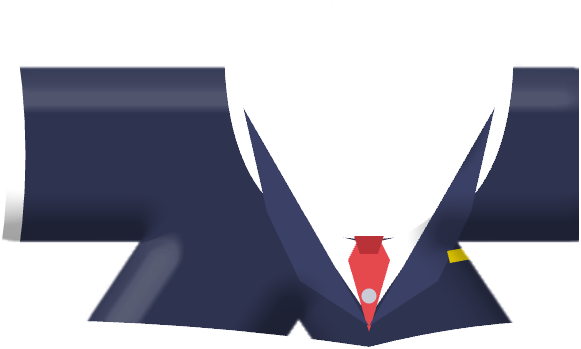
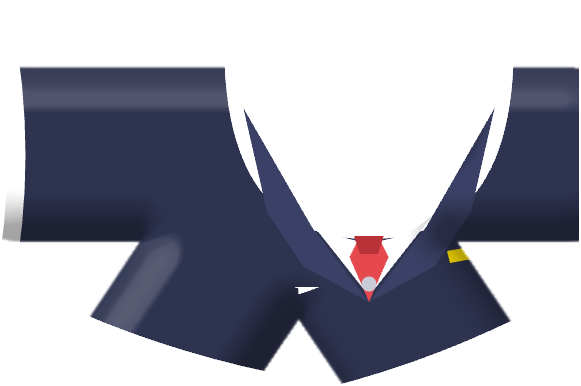
동기화: secret wip (c9b47fcce) — 정장 재킷 · 줄무늬 티셔츠 다리 밑단 · 신발은 늘 옷 위

diff --git a/mobile/scripts/av-art/art.js b/mobile/scripts/av-art/art.js
@@ -74,6 +74,13 @@
   // 윗옷 자리: 소매 끝 xl · xr, 밑단 hy. 얼굴(목둘레)은 비워요
   const NECK = 'M204 20 C198 142 250 168 300 168 C350 168 402 142 396 20 Z';
   const top = (xl, xr, hy = 214, hb = 16) => `M${xl} -20 L${xr} -20 L${xr} ${hy} Q${(xr + 300) / 2} ${hy} 300 ${hy + hb} Q${(xl + 300) / 2} ${hy} ${xl} ${hy} Z ${NECK}`;
+  /**
+   * 다리까지 내려오는 윗옷: 몸통(얼굴 빼고) + 두 다리 띠(0.12 ~ s1). 밑단이 다리마다 다리와 직각이라 바지처럼 자연스러워요.
+   * top() 의 가로 밑단은 비스듬한 다리를 가로질러 잘려 보이고, 가운데(300)가 실제 가랑이(252)와 어긋나 한쪽 다리만 처져 보였어요.
+   * 조각마다 따로 칠해요(lower 와 같은 까닭) — 무늬를 자를 땐 clipPath 에 세 조각을 다 넣어요.
+   */
+  const shirt = (xl, xr, s1, b = 0.03) => [`M${xl} -20 L${xr} -20 L${xr} 200 L${xl} 200 Z ${NECK}`, band('ll', 0.12, s1, 0, b), band('lr', 0.12, s1, 0, b)];
+  const fills = (ds, c) => ds.map((d) => fl(d, c)).join('');
   /** 몸에 칠하기 (몸 모양으로 자르고 원본 빛 · 그림자를 곱해요) */
   const paint = (body, out = '') => {
     const u = 'p' + U++;
@@ -239,7 +246,7 @@
   const pants = (s1, c) => lower(0.26, s1, 'M96 190 H420 V236 H96 Z', c);
   const WEARS = [
     { id: 'w-tee', name: '줄무늬 티셔츠', price: 0, rare: '기본', art: () => paint(
-      fl(top(112, 400), '#FFFFFF') + `<clipPath id="te${U}"><path d="${top(112, 400)}" fill-rule="evenodd"/></clipPath>` +
+      fills(shirt(112, 400, 0.4), '#FFFFFF') + `<clipPath id="te${U}">${shirt(112, 400, 0.4).map((d) => `<path d="${d}"/>`).join('')}</clipPath>` +
       `<g clip-path="url(#te${U})">${rng(9, (i) => fl(`M0 ${-4 + i * 26} H520 V${12 + i * 26} H0Z`, '#2F4A8C'))}</g>` +
       ln(NECK.replace(' Z', ''), '#2F4A8C', 12) + ln('M112 40 Q122 112 112 184', '#E5484D', 18, { cap: 'butt' }) + ln('M400 40 Q390 112 400 184', '#E5484D', 18, { cap: 'butt' })) },
     { id: 'w-hoodie', name: '포근 후드티', price: 0, rare: '기본', art: () => paint(
@@ -276,11 +283,11 @@
       ln('M58 44 Q68 112 58 180', '#DDA978', 20, { cap: 'butt' }) + ln('M444 44 Q434 112 444 180', '#DDA978', 20, { cap: 'butt' }) +
       fl('M96 208 H420 V222 Q300 240 96 222 Z', '#DDA978') + rng(30, (i) => ln(`M${104 + i * 10} 208 l0 16`, '#B99A66', 2, { op: 0.35 }))) },
     { id: 'w-suit', name: '정장 재킷', price: 350, rare: '레어', art: () => paint(
-      `<path d="${top(60, 440, 222, 18)}" fill="#2E3350" fill-rule="evenodd"/>` +
-      fl('M232 120 L300 220 L368 120 Q340 168 300 170 Q260 168 232 120 Z', '#FFFFFF') +
-      fl('M292 170 L308 170 L314 182 L300 230 L286 182 Z', '#E5484D') + fl('M290 166 h20 l-4 12 h-12 Z', '#B83238') +
-      fl('M216 80 L262 160 L300 226 L254 196 L232 150 Z', '#3B4166') + fl('M384 80 L338 160 L300 226 L346 196 L368 150 Z', '#3B4166') +
-      `<circle cx="300" cy="206" r="5" fill="#C9CCD6"/>` + fl('M352 176 l22 -4 l2 8 l-22 4 Z', '#FFE200') +
+      fills(shirt(60, 440, 0.5), '#2E3350') +
+      fl('M232 120 L300 206 L368 120 Q340 168 300 170 Q260 168 232 120 Z', '#FFFFFF') +
+      fl('M292 170 L308 170 L313 180 L300 210 L287 180 Z', '#E5484D') + fl('M290 166 h20 l-4 12 h-12 Z', '#B83238') +
+      fl('M216 80 L262 160 L300 210 L256 186 L232 150 Z', '#3B4166') + fl('M384 80 L338 160 L300 210 L344 186 L368 150 Z', '#3B4166') +
+      `<circle cx="300" cy="198" r="5" fill="#C9CCD6"/>` + fl('M352 176 l22 -4 l2 8 l-22 4 Z', '#FFE200') +
       ln('M60 44 Q70 112 60 180', '#FFFFFF', 12, { cap: 'butt' })) },
     { id: 'w-hanbok', name: '색동 한복', price: 350, rare: '레어', art: () => paint(
       lower(0.2, 0.95, 'M90 196 H426 V240 H90 Z', '#3B5BA9', [0.04, 0.04]) +

diff --git a/mobile/src/components/character/avatar.tsx b/mobile/src/components/character/avatar.tsx
@@ -7,7 +7,7 @@ import Svg, { ClipPath, Defs, Ellipse, G, LinearGradient, Path, Stop } from 'rea
 import { PText } from '@/components/ui/text';
 import { Font } from '@/constants/fonts';
 import { Colors } from '@/constants/theme';
-import { AV_BG, AV_COLOR_HEX, memberAvatar, type Avatar, type AvItem, type AvLayer } from '@/data/my';
+import { AV_BG, AV_COLOR_HEX, memberAvatar, type Avatar, type AvCat, type AvItem, type AvLayer } from '@/data/my';
 import { avItem, useAvArt, useAvBgs, useStageArt, type AvArtLayer } from '@/state/av-catalog';
 import { getMe } from '@/state/me';
 import { useMyAvatar } from '@/state/avatar';
@@ -217,10 +217,10 @@ const Z_BLINK = 500;
 /** 번들 그림 자리 → z */
 const BUNDLE_Z: Record<Exclude<AvLayer, 'fx'>, number> = { back: 100, paint: 300, eye: 400, front: 700 };
 const Z_HAIR_FRONT = 600;
-/** 같은 z 면 나머지 → 헤어 → 모자 순으로 뒤에서 앞 */
-const slotRank = (i: AvItem) => (i.hat ? 2 : i.hair ? 1 : 0);
+/** 같은 z 면 나머지 → 신발 → 헤어 → 모자 순으로 뒤에서 앞 — 신발은 늘 옷 위에 신어요(긴 옷 · 바지 밑단이 신발을 덮지 않게) */
+const slotRank = (i: AvItem) => (i.hat ? 3 : i.hair ? 2 : i.cat === 'shoe' ? 1 : 0);
 
-type Piece = { z: number; rank: number; key: string; node: ReactNode };
+type Piece = { z: number; rank: number; key: string; node: ReactNode; cat?: AvCat };
 
 /** 캐릭터(몸 + 입은 아이템)만 · 배경 없이 — 상자 크기 = width × width·332/520 (아이템은 상자 밖으로 삐져나와요) */
 export const AvatarChar = memo(function AvatarChar({ av, width: w, flip = av.flip, blink = true, style }: CharProps) {
@@ -239,7 +239,7 @@ export const AvatarChar = memo(function AvatarChar({ av, width: w, flip = av.fli
       layers.forEach((l, n) => {
         const img = <ArtLayer l={l} hc={hc} body={body} w={w} h={h} />;
         const node = l.part === 'front' && cover ? <ClipBelow clipY={cover.clipY ?? 40} w={w} h={h}>{img}</ClipBelow> : img;
-        pieces.push({ z: l.z, rank, key: `${it.id}:${n}`, node });
+        pieces.push({ z: l.z, rank, key: `${it.id}:${n}`, node, cat: it.cat });
       });
     } else if (it.hair) {
       pieces.push({ z: BUNDLE_Z.back, rank, key: it.id, node: <Sticker it={it} hc={hc} w={w} h={h} /> });
@@ -247,9 +247,12 @@ export const AvatarChar = memo(function AvatarChar({ av, width: w, flip = av.fli
     } else if (it.layer === 'eye') {
       pieces.push({ z: BUNDLE_Z.eye, rank, key: it.id, node: <EyeLayer it={it} color={av.color} w={w} h={h} /> });
     } else if (it.layer !== 'fx') {
-      pieces.push({ z: BUNDLE_Z[it.layer], rank, key: it.id, node: <Sticker it={it} hc={hc} w={w} h={h} /> });
+      pieces.push({ z: BUNDLE_Z[it.layer], rank, key: it.id, node: <Sticker it={it} hc={hc} w={w} h={h} />, cat: it.cat });
     }
   }
+  // 신발은 늘 옷 위: 서버가 옷에 신발보다 큰 z 를 줘도 신발을 옷의 가장 위 z(눈 아래)까지 올려요 — 같은 z 면 slotRank 로 신발이 앞
+  const wearZ = pieces.filter((p) => p.cat === 'wear' && p.z < BUNDLE_Z.eye).reduce((m, p) => Math.max(m, p.z), 0);
+  for (const p of pieces) if (p.cat === 'shoe' && p.z < wearZ) p.z = wearZ;
   // 정렬은 안정적이라 같은 z · 같은 칸이면 적힌 순서 그대로예요
   pieces.sort((a, b) => a.z - b.z || a.rank - b.rank);
   return (

diff --git a/mobile/scripts/av-art/lab.html b/mobile/scripts/av-art/lab.html
@@ -35,7 +35,8 @@ function lids(spec, col = '#FFE200') {
   }).join('');
 }
 function charHTML(eq, hc = '#3B2A20', flip = false) {
-  const its = eq.map((id) => A.ITEMS.find((i) => i.id === id)).filter(Boolean);
+  // 신발은 늘 옷 위 (앱 avatar.tsx 와 같아요)
+  const its = eq.map((id) => A.ITEMS.find((i) => i.id === id)).filter(Boolean).sort((a, b) => (a.cat === 'shoe') - (b.cat === 'shoe'));
   const cover = its.find((i) => i.hat && i.cover);
   let h = '';
   for (const it of its) {
